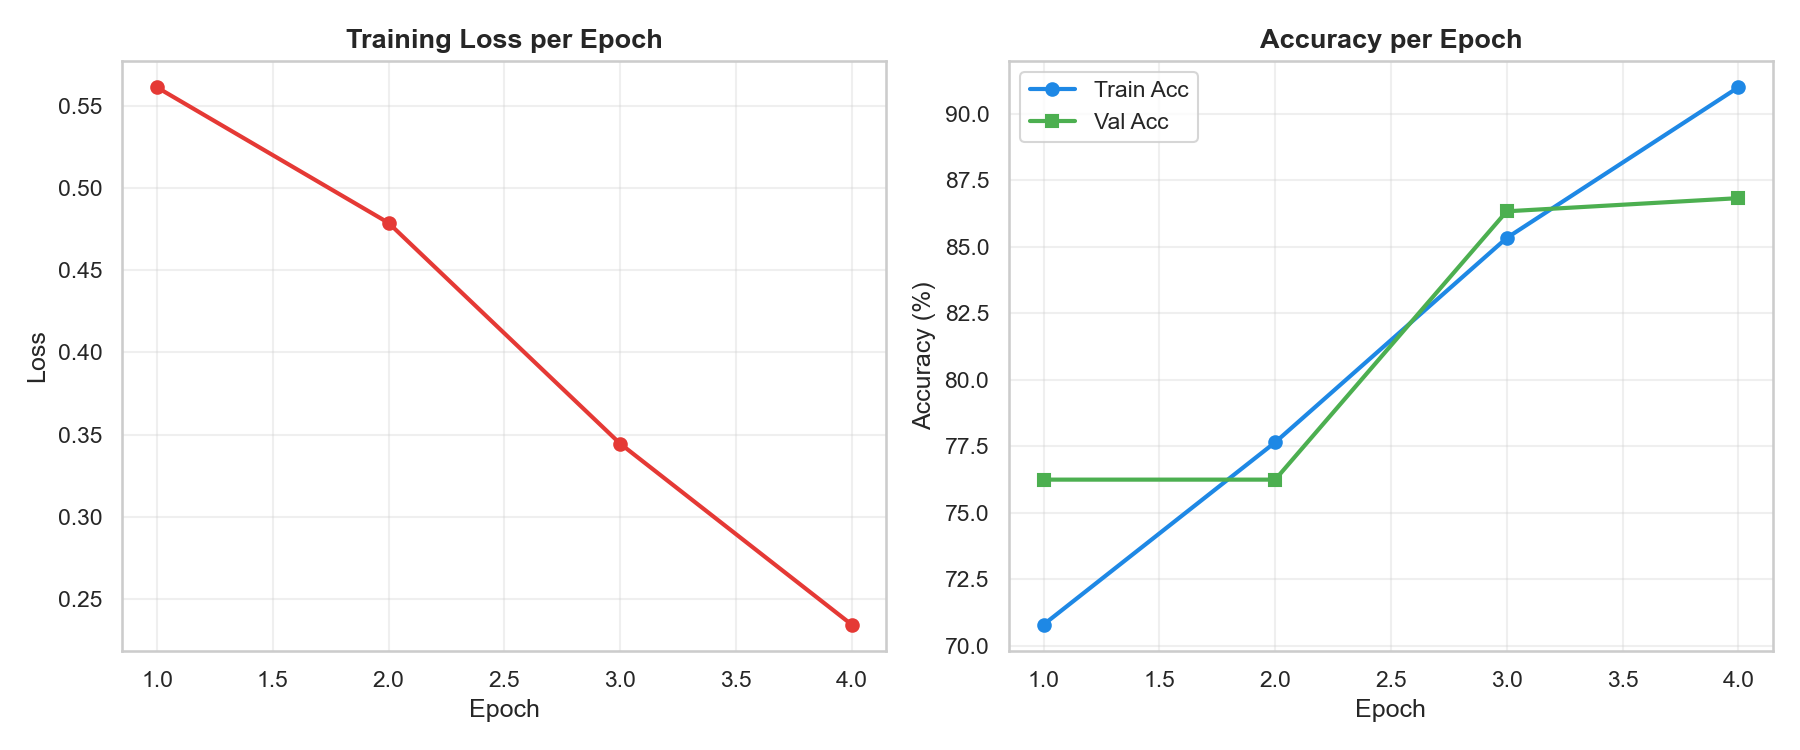
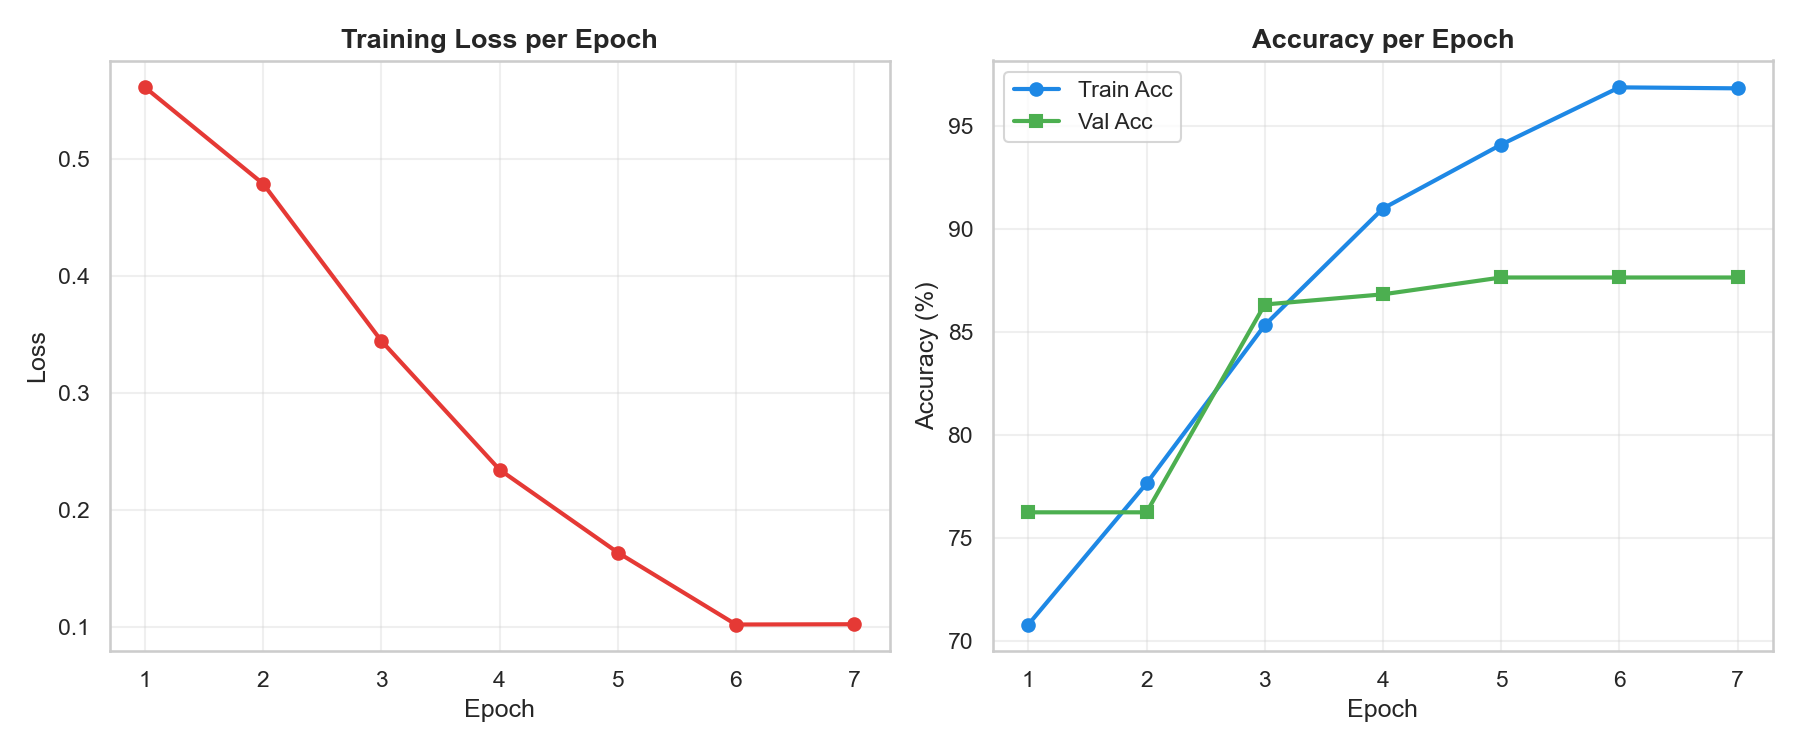
feat(lstm): train LSTM up to epoch 7 and update evaluation reports & plots

diff --git a/lstm_classifier/lstm_sentiment.py b/lstm_classifier/lstm_sentiment.py
@@ -78,7 +78,7 @@ HIDDEN_DIM   = 128      # Dimensi hidden state LSTM (dikurangi untuk VRAM)
 NUM_LAYERS   = 2        # Jumlah layer LSTM (stacked)
 DROPOUT      = 0.3      # Dropout rate
 BATCH_SIZE   = 32       # Ukuran batch training (dikurangi untuk VRAM)
-EPOCHS       = 4        # Jumlah epoch (lanjutkan sampai epoch 4)
+EPOCHS       = 7        # Jumlah epoch (lanjutkan sampai epoch 7)
 LR           = 1e-3     # Learning rate
 MAX_SEQ_LEN  = 150      # Panjang maksimum urutan kata (dikurangi untuk VRAM)
 PAD_IDX      = 0        # Index untuk padding token
